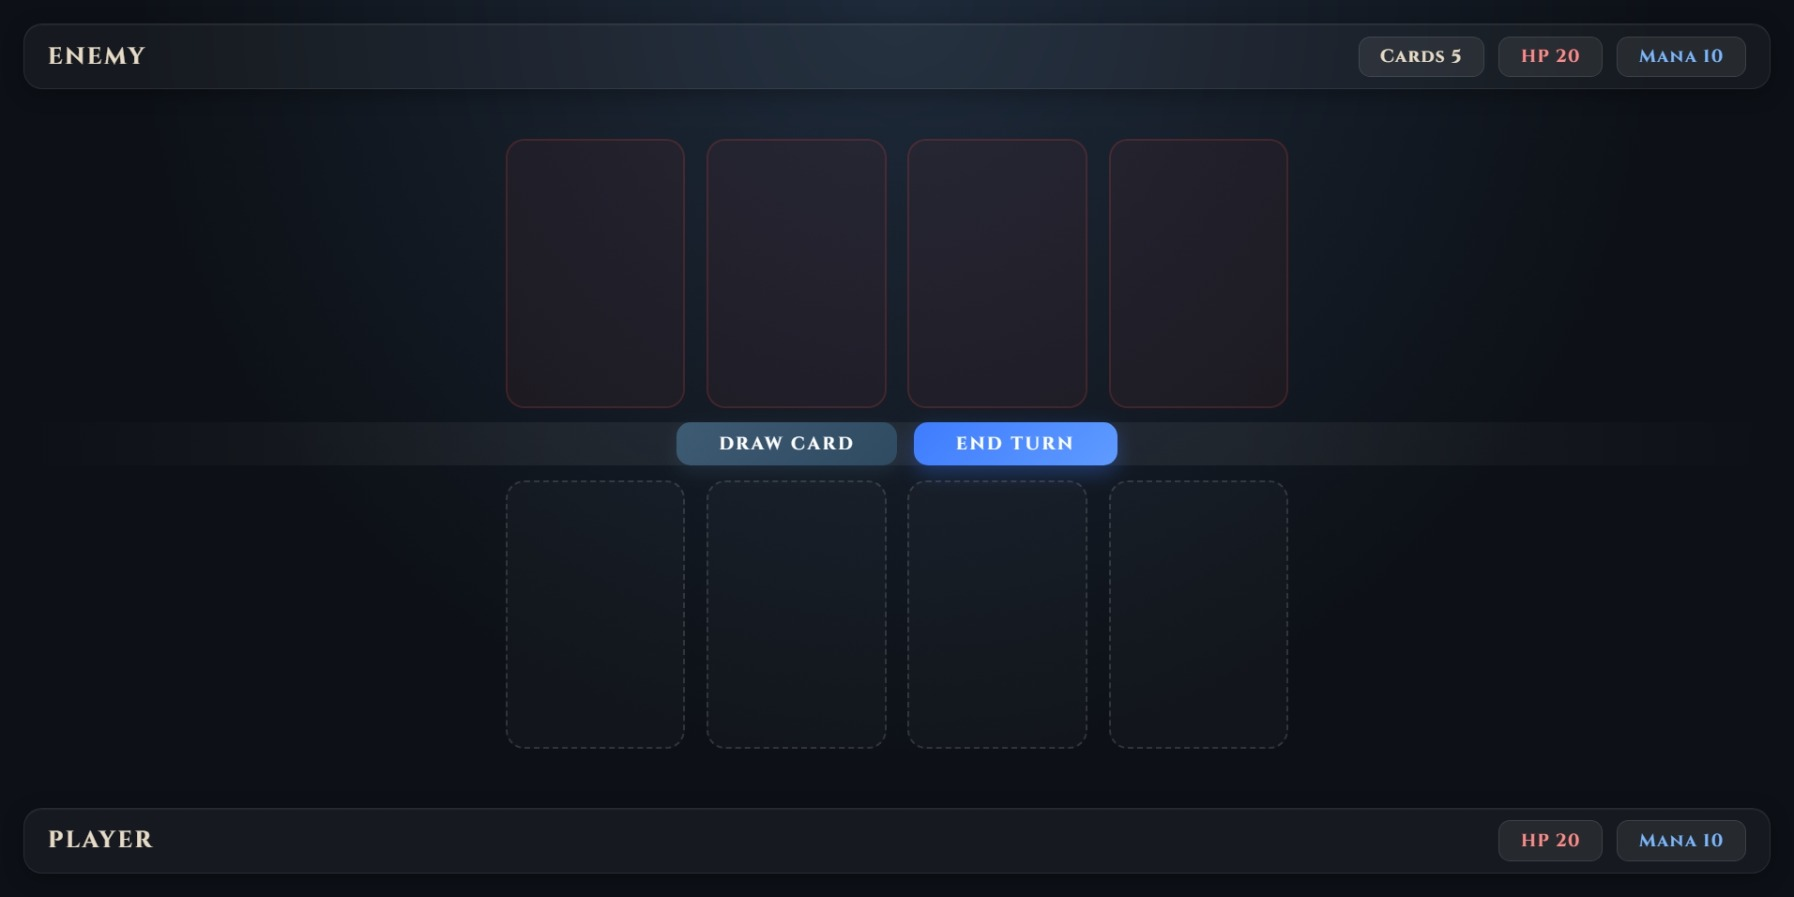
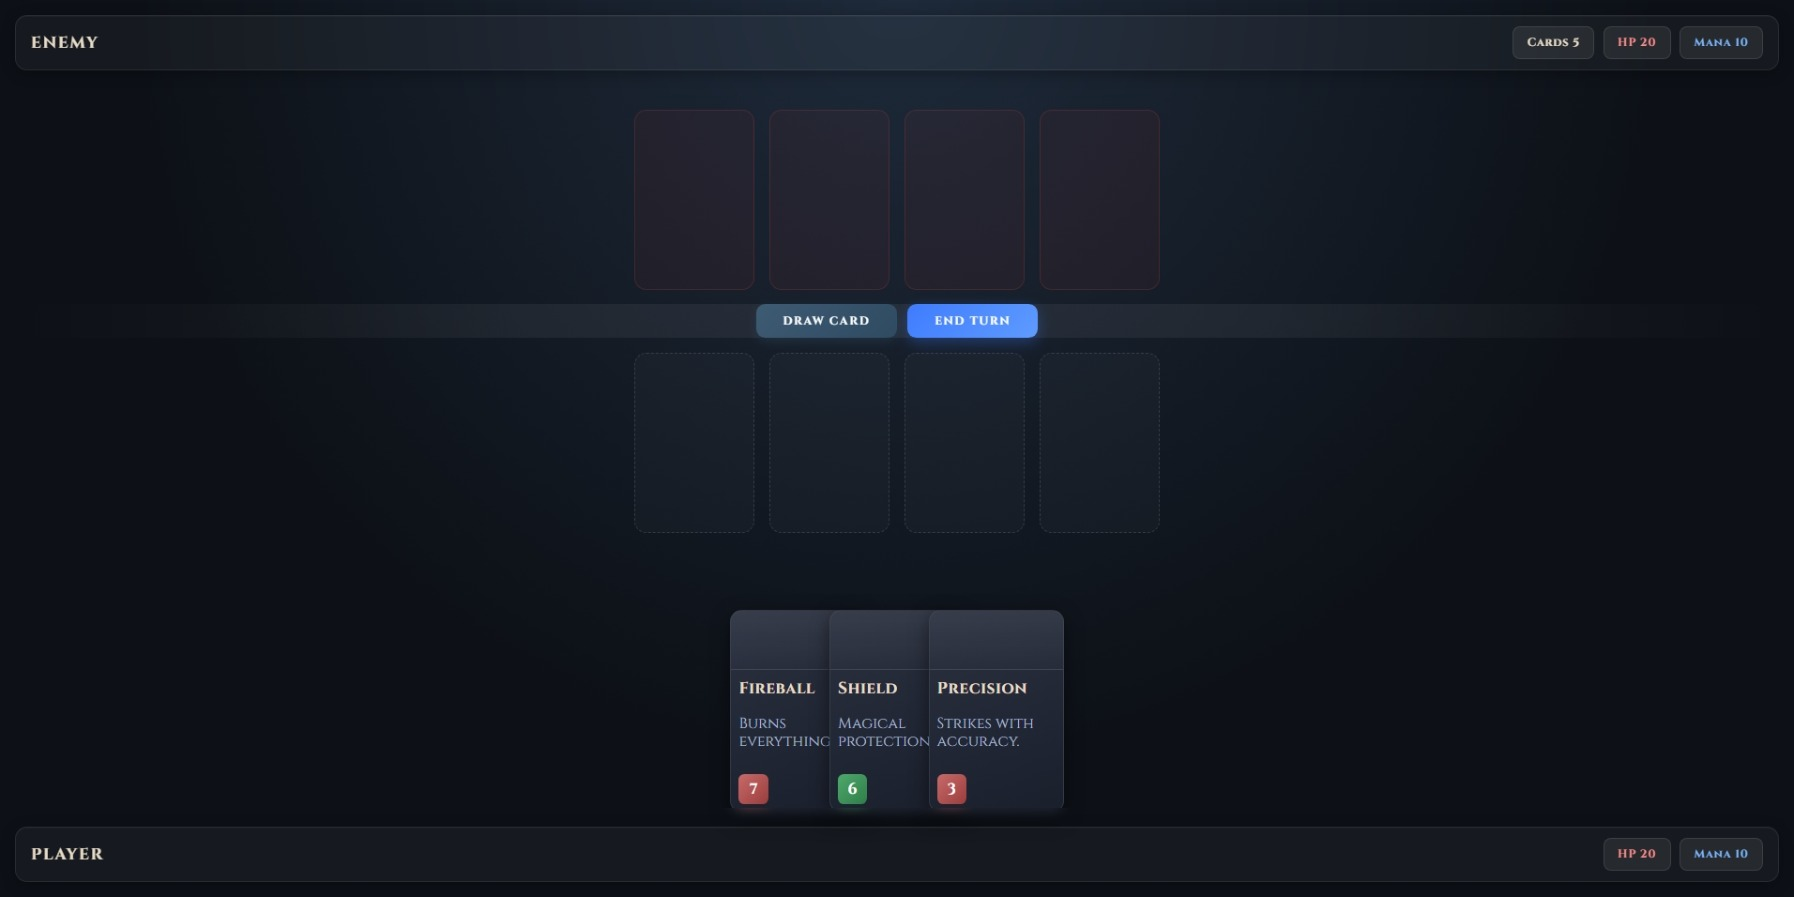
feat(ui): add hand card interface

diff --git a/styles.css b/styles.css
@@ -31,6 +31,7 @@
   --color-text-base-inverse: #fff;
   --color-text-panel-hp: #ff8b8b;
   --color-text-panel-mana: #7cb7ff;
+  --color-text-card-description: #aebfd6;
 
   --color-bg-arena: radial-gradient(ellipse at top, #1e2a3a 0%, #0d1117 60%);
   --color-bg-panel: rgba(255, 255, 255, 0.04);
@@ -41,11 +42,16 @@
   --color-bg-btn-end-turn: linear-gradient(135deg, #3f7cff, #5f9bff);
   --color-bg-btn-draw: linear-gradient(135deg, #3e5b74, #2f4b62);
   --color-bg-btn-draw-hover: linear-gradient(135deg, #4e6f8d, #385670);
+  --color-bg-card: linear-gradient(160deg, #2b3140, #1a1f2c);
+  --color-bg-card-attack: linear-gradient(135deg, #c96a6a, #9b3d3d);
+  --color-bg-card-health: linear-gradient(135deg, #4ea96b, #2f7d4a);
 
   --color-border-panel: rgba(255, 255, 255, 0.08);
   --color-border-panel-stat: rgba(255, 255, 255, 0.1);
   --color-border-slot: rgba(255, 255, 255, 0.13);
   --color-border-slot-hover: rgba(255, 255, 255, 0.3);
+  --color-border-card: rgba(255, 255, 255, 0.1);
+  --color-border-card-selected: #FFD700;
 
   --color-outline-btn-focus: rgba(255, 255, 255, 0.9);
   --color-outline-slot-focus: rgba(124, 183, 255, 0.9);
@@ -56,12 +62,14 @@
   --shadow-box-btn-end-turn-hover: 0 7px 20px rgba(63, 124, 255, 0.37);
   --shadow-box-btn-draw: 0 5px 15px rgba(56, 86, 112, 0.32);
   --shadow-box-btn-draw-hover: 0 7px 18px rgba(56, 86, 112, 0.36);
+  --shadow-box-card: 0 8px 24px rgba(0, 0, 0, 0.5);
   
   --shadow-filter-icon: drop-shadow(0 0 6px rgba(190, 220, 255, 0.3));
 
   /* SIZES */
   --size-width-slot: clamp(80px, 10vw, 160px);
   --size-width-btn: clamp(7.5rem, 14vw, 10.625rem);
+  --size-width-card: clamp(130px, 10vw, 180px);
 
   /* RADIUS */
   --size-radius-panel: 1rem;
@@ -76,6 +84,8 @@
   --size-padding-board: clamp(0.25rem, 0.6vh, 0.625rem);
   --size-padding-block-btn: clamp(0.5rem, 1vh, 1rem);
   --size-padding-inline-btn: clamp(1.25rem, 2.5vw, 2.25rem);
+  --size-padding-block-start-card-hand: clamp(2.25rem, 5vh, 3.125rem);
+  --size-padding-block-end-card-hand: clamp(0.25rem, 0.6vh, 0.5rem);
 
   --size-gap-layout: clamp(0.375rem, 1vh, 0.875rem);
   --size-gap-panel-stats: clamp(0.375rem, 0.8vw, 0.75rem);
@@ -361,6 +371,135 @@ body {
 }
 /* #endregion */
 
+/* #region [CARD HAND] ------------------------------ */
+.card-hand {
+  grid-area: player-hand;
+
+  display: flex;
+  justify-content: center;
+  align-items: flex-end;
+
+  padding-top: var(--size-padding-block-start-card-hand);
+  padding-bottom: var(--size-padding-block-end-card-hand);
+}
+
+/* cards */
+.card {
+  position: relative;
+  width: var(--size-width-card);
+  aspect-ratio: 2 / 3;
+  flex-shrink: 0;
+  container-type: inline-size; /* keeps card content proportionate (cqi) */
+
+  display: flex;
+  flex-direction: column;
+
+  margin-left: clamp(-48px, -3.5vw, -30px); /* overlap effect */
+
+  border: 1px solid var(--color-border-card);
+  border-radius: 16px;
+  background: var(--color-bg-card);
+
+  overflow: hidden;
+  cursor: pointer;
+
+  transition:
+    transform 0.25s cubic-bezier(0.34, 1.56, 0.64, 1),
+    box-shadow 0.25s ease,
+    z-index 0s; /* switches stacking immediately before the lift animation */
+
+  box-shadow: var(--shadow-box-card);
+
+  touch-action: manipulation;
+}
+
+.card:first-child {
+  margin-left: 0;
+}
+
+.card:hover {
+  transform: translateY(clamp(-20px, -20cqi, -32px)) scale(1.04);
+  z-index: 10; /* lift hovered card above others */
+  box-shadow:
+    0 20px 48px rgba(0, 0, 0, 0.6),
+    0 0 0 1px rgba(255, 255, 255, 0.18);
+}
+
+.card--selected {
+  transform: translateY(clamp(-24px, -28cqi, -40px));
+  border-color: var(--color-border-card-selected);
+  z-index: 10;
+}
+
+.card__art {
+  display: flex;
+  justify-content: center;
+  align-items: center;
+
+  height: clamp(64px, 45cqi, 110px);
+
+  border-bottom: 1px solid rgba(255, 255, 255, 0.07);
+
+  background: linear-gradient(
+    180deg,
+    rgba(255, 255, 255, 0.06),
+    rgba(255, 255, 255, 0.01)
+  );
+}
+
+.card__content {
+  flex: 1;
+  min-height: 0;
+
+  display: flex;
+  flex-direction: column;
+
+  padding: clamp(10px, 1cqi, 14px);
+}
+
+.card__title {
+  font-size: var(--size-font-global-large);
+  font-weight: 700;
+  letter-spacing: var(--size-letter-spacing-global-tight);
+  overflow: hidden;
+  text-overflow: ellipsis;
+}
+
+.card__description {
+  margin-block: auto; /* vertically center */
+
+  color: var(--color-text-card-description);
+  font-size: var(--size-font-global-medium);
+  line-height: var(--size-line-height-global-tight);
+}
+
+.card__stat {
+  margin: 0 0 var(--size-space-global-sm) var(--size-space-global-sm);
+  align-self: flex-start;
+
+  width: clamp(28px, 22cqi, 52px);
+  height: clamp(28px, 22cqi, 52px);
+
+  border-radius: 8px;
+
+  display: flex;
+  justify-content: center;
+  align-items: center;
+
+  color: var(--color-text-base-inverse);
+  font-size: var(--size-font-global-medium);
+  font-weight: 900;
+}
+
+.card__stat--attack {
+  background: var(--color-bg-card-attack);
+}
+
+.card__stat--health {
+  background: var(--color-bg-card-health);
+}
+/* #endregion */
+
 /* #region [ACCESSIBILITY] -------------------------- */
 .visually-hidden {
   position: absolute;
@@ -397,6 +536,20 @@ body {
   }
 
   .button:is(:hover, :active) {
+    transform: none;
+  }
+
+  .card {
+    transition-property: box-shadow, opacity;
+    transition-duration: 0.15s;
+    transition-timing-function: ease-out;
+  }
+
+  .card:hover {
+    transform: none;
+  }
+
+  .card--selected {
     transform: none;
   }
 }

diff --git a/index.html b/index.html
@@ -56,6 +56,51 @@
     </div>
     <!-- #endregion -->
 
+    <!-- #region [PLAYER HAND] --------------------------->
+    <div class="card-hand" role="group" aria-label="Player hand">
+
+      <!-- #region card: FIREBALL -->
+      <article class="card" tabindex="0">
+        <div class="card__art"></div>
+
+        <div class="card__content">
+          <h3 class="card__title">Fireball</h3>
+          <p class="card__description">Burns everything.</p>
+        </div>
+
+        <div class="card__stat card__stat--attack" aria-label="Attack 7">7</div>
+      </article>
+      <!-- #endregion -->
+
+      <!-- #region card: SHIELD -->
+      <article class="card" tabindex="0">
+        <div class="card__art"></div>
+
+        <div class="card__content">
+          <h3 class="card__title">Shield</h3>
+          <p class="card__description">Magical protection.</p>
+        </div>
+
+        <div class="card__stat card__stat--health" aria-label="Health 6">6</div>
+      </article>
+      <!-- #endregion -->
+
+      <!-- #region card: PRECISION -->
+      <article class="card" tabindex="0">
+        <div class="card__art"></div>
+
+        <div class="card__content">
+          <h3 class="card__title">Precision</h3>
+          <p class="card__description">Strikes with accuracy.</p>
+        </div>
+
+        <div class="card__stat card__stat--attack" aria-label="Attack 3">3</div>
+      </article>
+      <!-- #endregion -->
+    
+    </div>
+    <!-- #endregion -->
+
     <!-- #region [PLAYER PANEL] -------------------------->
     <section class="player-panel player-panel--player" aria-label="Player status">
       <h2 class="player-panel__name">Player</h2>

diff --git a/README.md b/README.md
@@ -1,11 +1,11 @@
 <div align="center">
 
 <pre align="center">
-  ⚔️  ✦  ⚔️  ✦  ⚔️  ✦  ⚔️  ✦  ⚔️
- ╔═══════════════════════════════╗
- ║   . : C A R D   D U E L : .   ║
- ╚═══════════════════════════════╝
-  ⚔️  ✦  ⚔️  ✦  ⚔️  ✦  ⚔️  ✦  ⚔️
+  ⚔️  ✦  ⚔️  ✦  ⚔️  ✦  ⚔️
+ ╔═══════════════════════════╗
+ ║ . : C A R D   D U E L : . ║
+ ╚═══════════════════════════╝
+  ⚔️  ✦  ⚔️  ✦  ⚔️  ✦  ⚔️
 </pre>
 
 ![HTML5](https://img.shields.io/badge/HTML5-E34F26?style=flat&logo=html5&logoColor=white)
@@ -198,7 +198,7 @@ The current version focuses on:
 
 | Desktop | Mobile |
 |---|---|
-| <img src="assets/images/screenshot_desktop-ui.jpeg" width="400" alt="Desktop UI"> | <img src="assets/images/screenshot_mobile-ui.jpg" width="200" alt="Mobile UI"> |
+| <img src="assets/images/screenshot_desktop-ui.jpeg" width="400" alt="Desktop UI"> | <img src="assets/images/screenshot_mobile-ui.jpeg" width="200" alt="Mobile UI"> |
 
 ---
 
@@ -220,11 +220,7 @@ This isn't just a game — it's a structured self-education path through the joy
 
 ---
 
-<h2 align="center">👤 Author</h2>
-
-<div align="center">
+## 👤 Author
 
 [![GitHub](https://img.shields.io/badge/GitHub-pparys93-181717?style=flat&logo=github)](https://github.com/pparys93)
 [![LinkedIn](https://img.shields.io/badge/LinkedIn-Przemysław%20Parys-0077B5?style=flat&logo=linkedin)](https://linkedin.com/in/przemys%C5%82aw-parys-85a47621a)
-
-</div>